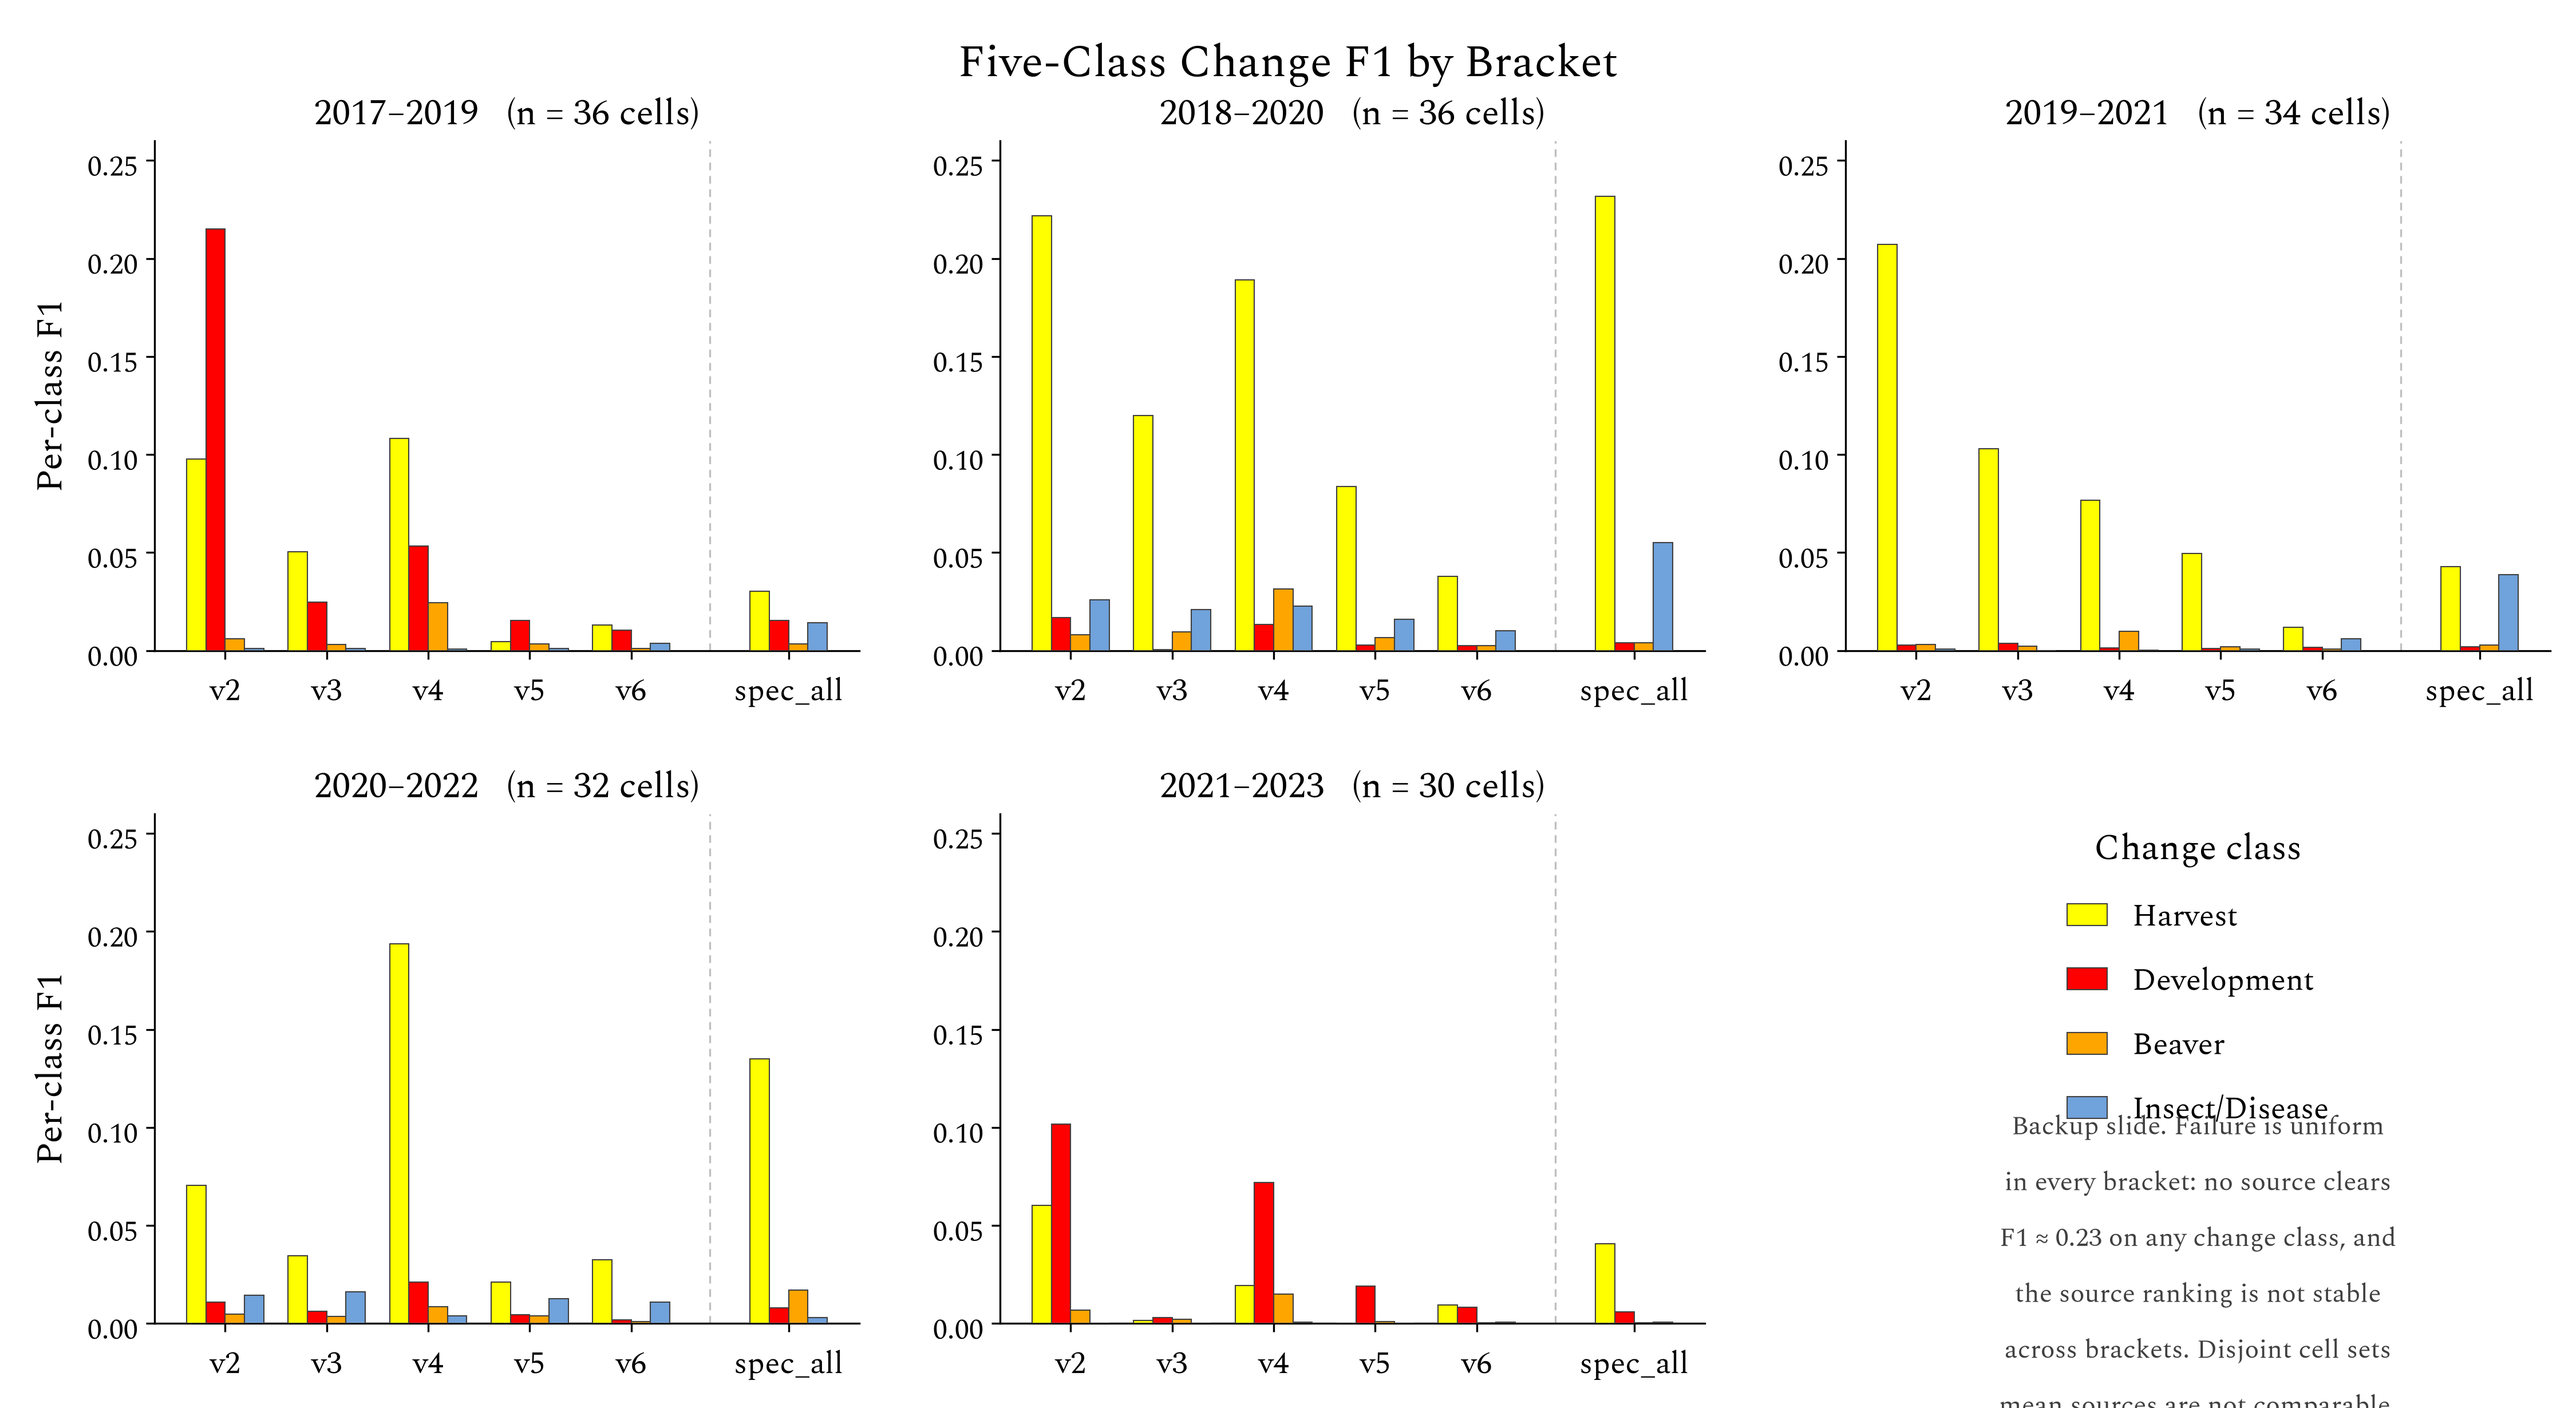
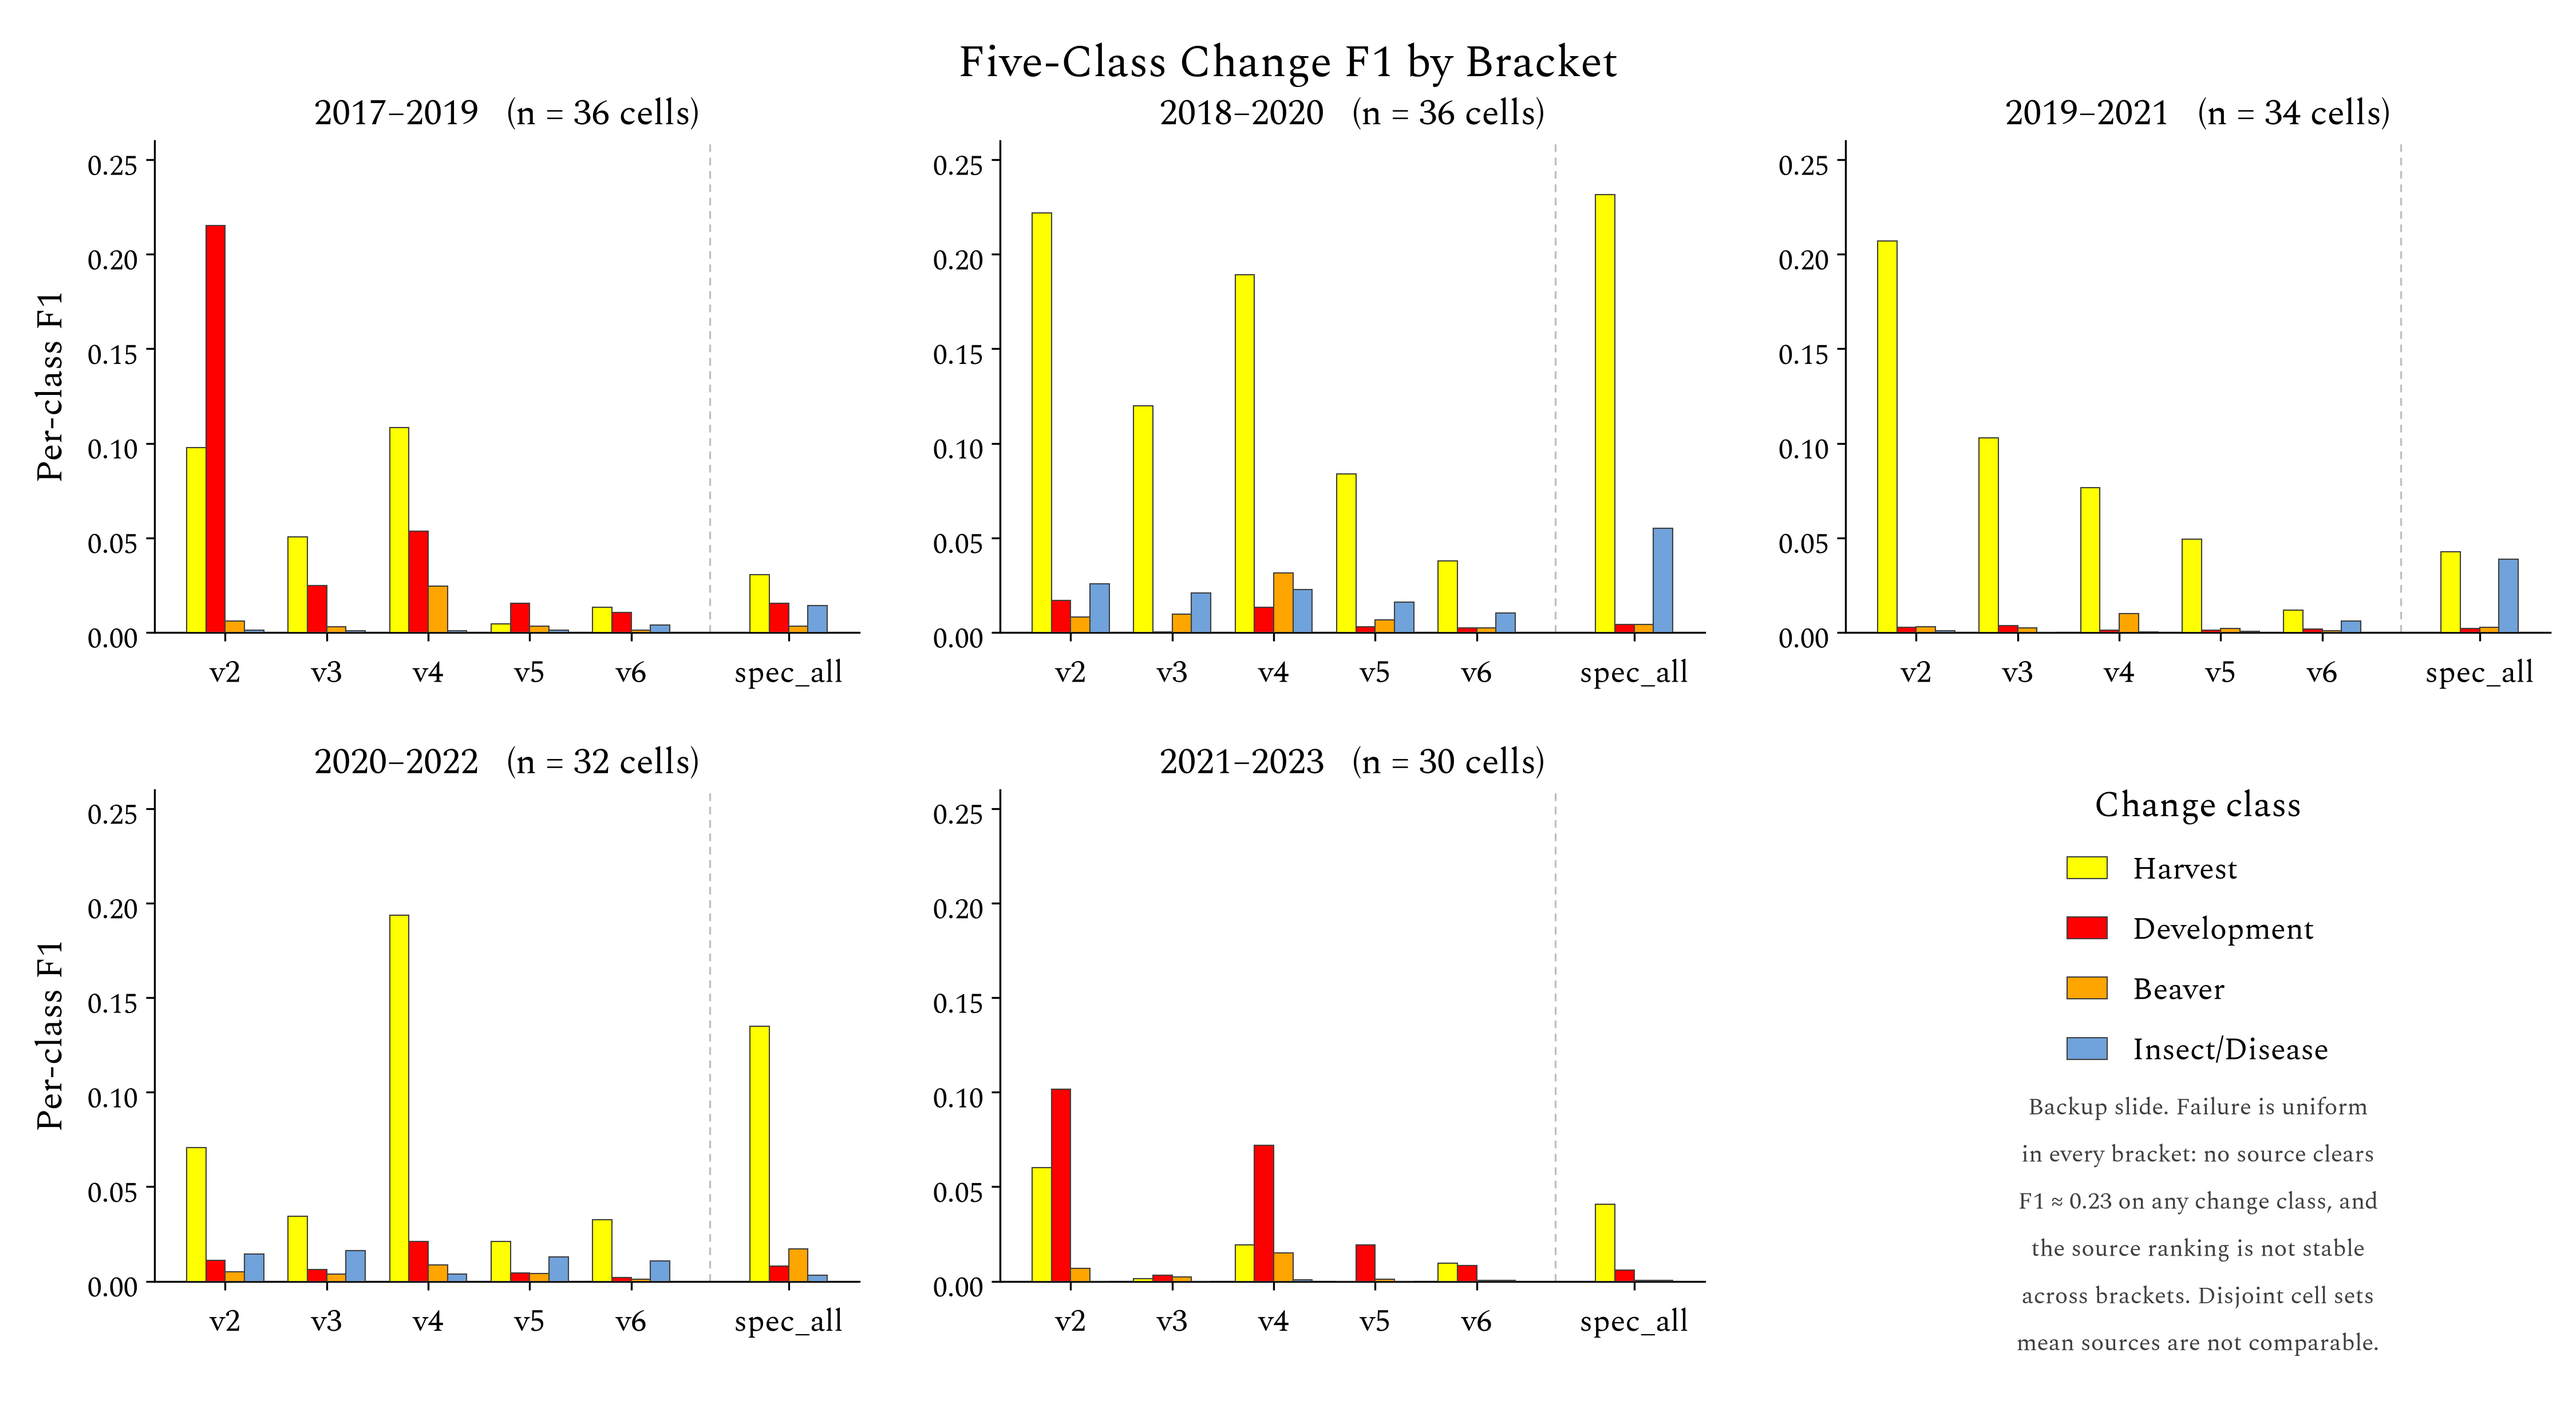
Sweep: fix remaining Spectral overlaps in pres_14b and pres_03_aef_schematic
pres_14b: legend no longer collides with the note and the note's last line is no
longer cut off (smaller note, tighter legend, more bottom margin). pres_03_aef_schematic:
smaller title clears the header row, and larger label-to-box gaps keep the section
labels off their box tops.

diff --git a/presentation/scripts/pres_14_changeclass_f1_5class.py b/presentation/scripts/pres_14_changeclass_f1_5class.py
@@ -201,9 +201,9 @@ def draw_bracket_facets(per_bracket, per_bracket_n):
     axes[5].axis("off")
     handles, labels = axes[0].get_legend_handles_labels()
     axes[5].legend(handles, labels, fontsize=BODY_FS - 3, frameon=False, loc="upper center",
-                   bbox_to_anchor=(0.5, 1.04), title="Change class", title_fontsize=BODY_FS - 1,
-                   labelspacing=0.55, handlelength=1.3)
-    axes[5].text(0.5, 0.44,
+                   bbox_to_anchor=(0.5, 1.08), title="Change class", title_fontsize=BODY_FS - 1,
+                   labelspacing=0.42, handlelength=1.3)
+    axes[5].text(0.5, 0.4,
                  "Backup slide. Failure is uniform\n"
                  "in every bracket: no source clears\n"
                  "F1 ≈ 0.23 on any change class, and\n"
@@ -211,9 +211,9 @@ def draw_bracket_facets(per_bracket, per_bracket_n):
                  "across brackets. Disjoint cell sets\n"
                  "mean sources are not comparable.",
                  transform=axes[5].transAxes, ha="center", va="top",
-                 fontsize=BODY_FS - 5, color="0.25", linespacing=1.4)
+                 fontsize=BODY_FS - 6, color="0.25", linespacing=1.3)
     fig.suptitle("Five-Class Change F1 by Bracket", fontsize=AXIS_FS + 1, y=0.98)
-    fig.subplots_adjust(left=0.06, right=0.99, top=0.9, bottom=0.06, hspace=0.32, wspace=0.2)
+    fig.subplots_adjust(left=0.06, right=0.99, top=0.9, bottom=0.09, hspace=0.32, wspace=0.2)
     return fig
 
 

diff --git a/presentation/scripts/pres_03_aef_schematic.py b/presentation/scripts/pres_03_aef_schematic.py
@@ -109,7 +109,7 @@ def _draw_target_subcolumn(ax, renderer, x, top_y, w, groups):
     # draw type-grouped outlined boxes flowing downward, return the y of the lowest box bottom.
     # taller boxes with tighter gaps keep the column the same height while giving the two text
     # lines clear margins from the box borders
-    tbh, gap, lab, ggap = 0.072, 0.010, 0.032, 0.020
+    tbh, gap, lab, ggap = 0.068, 0.008, 0.042, 0.016
     y = top_y
     low = top_y
     for gname, boxes in groups:
@@ -146,8 +146,8 @@ def main():
     fig.canvas.draw()
     renderer = fig.canvas.get_renderer()
 
-    ax.text(0.5, 0.975, "AlphaEarth: Inference Inputs Versus Training Targets",
-            ha="center", va="top", fontsize=22, fontweight="bold")
+    ax.text(0.5, 0.982, "AlphaEarth: Inference Inputs Versus Training Targets",
+            ha="center", va="top", fontsize=19, fontweight="bold")
 
     # ---- register 1: inputs (solid) ----
     c1x, c1w = 0.015, 0.185
